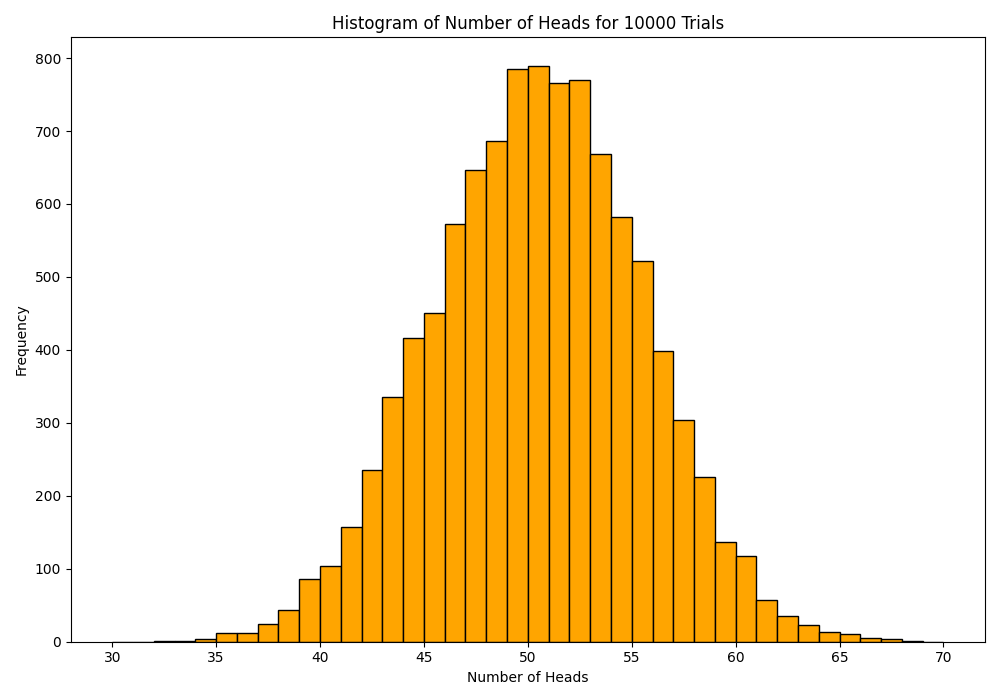
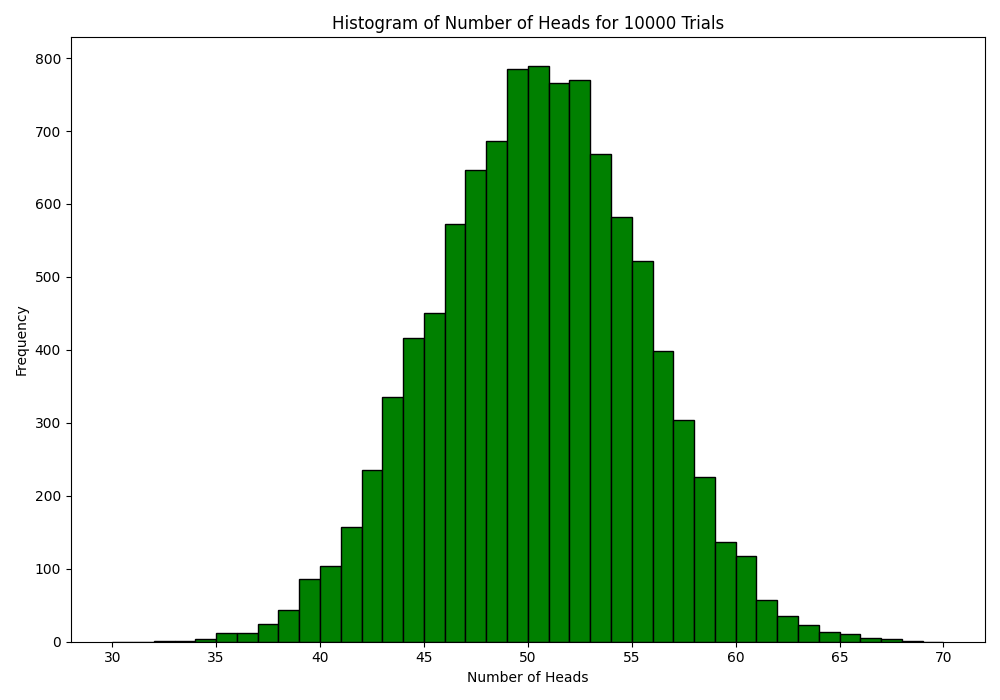
Added different bins for different Trials also added range of histogram

Changed region(s): [[0.217, 0.09, 0.899, 0.93]]

diff --git a/Ambuj/part1A.py b/Ambuj/part1A.py
@@ -38,7 +38,7 @@ def plot_hist(trial):
     fig, axs = plt.subplots(figsize=(10, 7), tight_layout=True)
 
     ## Write your code here
-    plt.hist(trial, bins=40 if len(trial) > 1000 else 20 if len(trial) > 100 else 10, range=(30, 70), color='orange',
+    plt.hist(trial, bins=40 if len(trial) > 1000 else 20 if len(trial) > 100 else 10, range=(30, 70), color='green',
              edgecolor='black')
     axs.set_title(f'Histogram of Number of Heads for {num_trials} Trials')
     axs.set_xlabel('Number of Heads')
